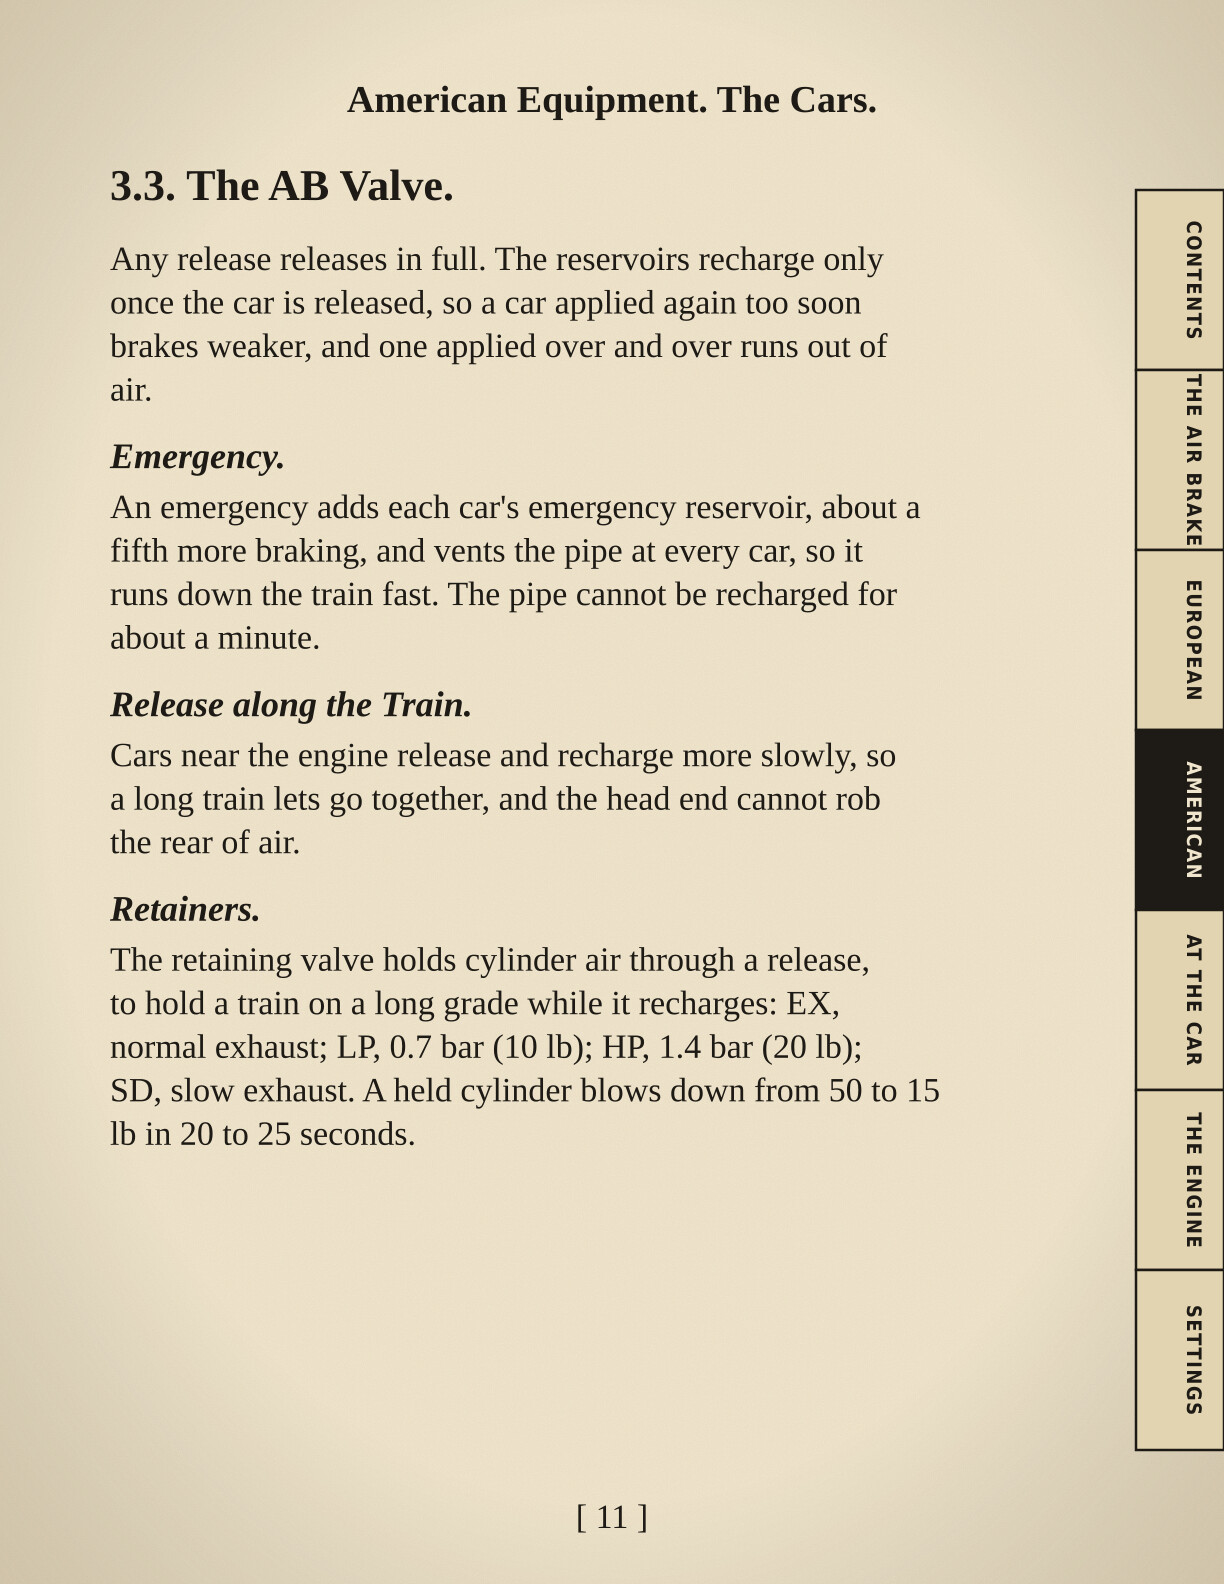
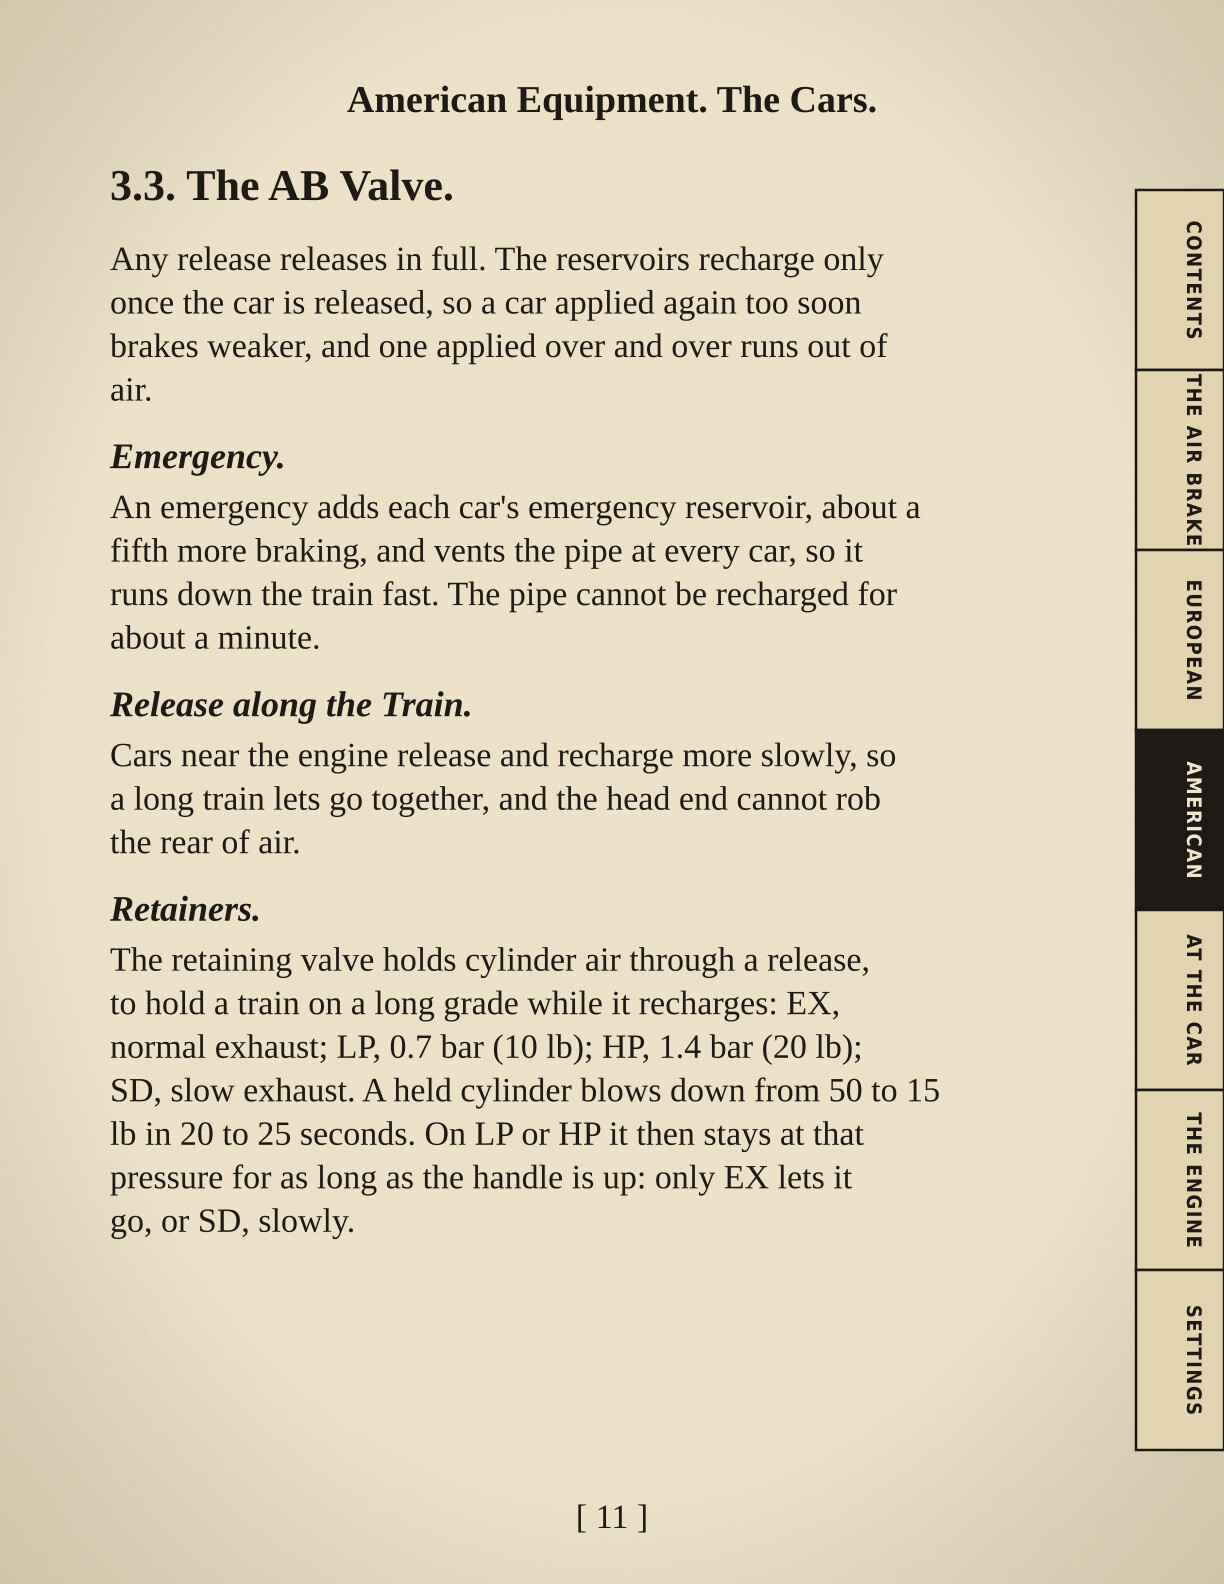
Release Realistic Brakes 1.4.1 source snapshot

Changed region(s): [[0.3415, 0.7115, 0.7141, 0.7734], [0.0931, 0.7424, 0.3105, 0.8043]]

diff --git a/src/RealisticBrakes/Sim/BrakeSets.cs b/src/RealisticBrakes/Sim/BrakeSets.cs
@@ -29,9 +29,43 @@ namespace RealisticBrakes.Sim
         private static int generation;
         private static bool stale;
 
+        // The car last found, and its air. The game asks after the same car
+        // some ten times running in its tick (each stock air method, the
+        // readouts, the heat), each a look in the weak table: about 1 µs a
+        // car a frame, 0.4 ms at 414 cars (in game, 2026-11-09 and 11-11).
+        private static BrakeSystem lastSystem;
+        private static CarAir lastAir;
+
+        // Bumped whenever a car's air is dropped or taken on: a set's airs
+        // (SetAirs) are known still to be its cars' while it stands.
+        private static int carsChanged;
+
         /// <summary>The air of the car with <paramref name="system"/>, if the model has taken it on.</summary>
-        public static bool TryGet(BrakeSystem system, out CarAir air) =>
-            cars.TryGetValue(system, out air) && air.Generation == generation;
+        public static bool TryGet(BrakeSystem system, out CarAir air)
+        {
+            if (lastAir != null && ReferenceEquals(system, lastSystem))
+            {
+                air = lastAir;
+                return air.Generation == generation;
+            }
+            if (!cars.TryGetValue(system, out air))
+                return false;
+            lastSystem = system;
+            lastAir = air;
+            return air.Generation == generation;
+        }
+
+        // Drops a car's air from the table, and from what is remembered of it.
+        private static void Drop(BrakeSystem system)
+        {
+            cars.Remove(system);
+            carsChanged++;
+            if (ReferenceEquals(system, lastSystem))
+            {
+                lastSystem = null;
+                lastAir = null;
+            }
+        }
 
         /// <summary>Re-reads every car's air on the next tick, as when the equipment setting changes.</summary>
         public static void Invalidate() => stale = true;
@@ -132,7 +166,7 @@ namespace RealisticBrakes.Sim
                 if (system != null && cars.TryGetValue(system, out var air))
                 {
                     air.RestoreForce();
-                    cars.Remove(system);
+                    Drop(system);
                 }
         }
 
@@ -152,7 +186,7 @@ namespace RealisticBrakes.Sim
             if (cars.TryGetValue(system, out var air))
                 air.RestoreForce();
             system.auxReservoirPressure = NewAuxiliaryReservoir;
-            cars.Remove(system);
+            Drop(system);
             SavedAir.Discard(system);
             Net.Forget(system);
         }
@@ -176,7 +210,8 @@ namespace RealisticBrakes.Sim
                 stale = false;
                 generation++;
             }
-            var line = LineFor(set);
+            var kept = AirsFor(set);
+            var line = kept.Line;
             var pumpSpeedUp = set.firstCar.gameParams?.CompressorProductionModifier ?? 1f;
             var pipe = line.Pipe;
             var frontOpen = Vents(set.GetEndmost(front: true));
@@ -186,13 +221,9 @@ namespace RealisticBrakes.Sim
             pipe.RearOpen = rearOpen;
             changed |= VentFromOutside(set, line, dt);
 
-            airs.Clear();
-            foreach (var system in set.cars)
-            {
-                TryGet(system, out var air);
+            var airs = kept.Airs;
+            foreach (var air in airs)
                 changed |= air.BeforeStep(pumpSpeedUp);
-                airs.Add(air);
-            }
             if (!changed && line.ChangeRate < SettledRate)
             {
                 // Standing still (parked, lapped, level): nothing to run until something changes.
@@ -218,9 +249,6 @@ namespace RealisticBrakes.Sim
         /// second, far under the 0.3 bar a minute of a leak the cars ignore.
         /// </summary>
         private const double SettledRate = 1.0;
-
-        // Reused each tick, as the game ticks hundreds of sets a frame.
-        private static readonly List<CarAir> airs = new List<CarAir>();
 
         /// <summary>
         /// The set's one stock pipe pressure, bar absolute, for code that
@@ -318,6 +346,45 @@ namespace RealisticBrakes.Sim
             return true;
         }
 
+        // A set's line and its cars' airs in the set's order, as last
+        // matched: while no car's air anywhere has been dropped or taken on
+        // since, and the set holds the same cars in the same order, they
+        // still match, with no look in the table for any car.
+        private sealed class SetAirs
+        {
+            public BrakeLine Line;
+            public BrakeSystem[] Systems;
+            public CarAir[] Airs;
+            public int Generation;
+            public int CarsChanged;
+        }
+
+        private static readonly ConditionalWeakTable<Brakeset, SetAirs> setAirs = new ConditionalWeakTable<Brakeset, SetAirs>();
+
+        private static SetAirs AirsFor(Brakeset set)
+        {
+            if (setAirs.TryGetValue(set, out var kept) && kept.Generation == generation && kept.Systems.Length == set.cars.Count
+                && lines.TryGetValue(set, out var still) && ReferenceEquals(still, kept.Line))
+            {
+                var same = true;
+                for (var i = 0; same && i < kept.Systems.Length; i++)
+                    same = ReferenceEquals(kept.Systems[i], set.cars[i]);
+                // Some car's air has changed since, perhaps one of these: looked up again.
+                if (same && kept.CarsChanged != carsChanged && Matches(kept.Line, set))
+                    kept.CarsChanged = carsChanged;
+                if (same && kept.CarsChanged == carsChanged)
+                    return kept;
+            }
+            var line = LineFor(set);
+            var airs = new CarAir[set.cars.Count];
+            for (var i = 0; i < airs.Length; i++)
+                TryGet(set.cars[i], out airs[i]);
+            setAirs.Remove(set);
+            kept = new SetAirs { Line = line, Systems = set.cars.ToArray(), Airs = airs, Generation = generation, CarsChanged = carsChanged };
+            setAirs.Add(set, kept);
+            return kept;
+        }
+
         private static BrakeLine LineFor(Brakeset set)
         {
             if (lines.TryGetValue(set, out var line) && Matches(line, set))
@@ -330,13 +397,14 @@ namespace RealisticBrakes.Sim
             {
                 if (!TryGet(system, out var air))
                 {
-                    cars.Remove(system);
+                    Drop(system);
                     // Each car's own pipe readout, which a save restores per car; the set's is an average.
                     var pipe = system.brakePipePressure > 0.5f ? system.brakePipePressure : set.pipePressure;
                     air = CarAir.Create(system, pipe, generation);
                     SavedAir.Apply(air);
                     Net.ApplyPending(air);
                     cars.Add(system, air);
+                    carsChanged++;
                 }
                 if (air.Line != null)
                     previous.Add(air.Line);

diff --git a/art/booklet/make_booklet.py b/art/booklet/make_booklet.py
@@ -29,7 +29,7 @@ INK = "#1e1a15"
 PAPER = "#efe5cc"
 RED = "#9d3427"
 BLUE = "#2e4c80"
-EDITION = "1.4.0"
+EDITION = "1.4.1"
 
 LEFT, RIGHT = 110, W - 144
 
@@ -373,7 +373,7 @@ CHAPTERS = [
         ("h2", "Release along the Train."),
         ("p", "Cars near the engine release and recharge more slowly, so a long train lets go together, and the head end cannot rob the rear of air."),
         ("h2", "Retainers."),
-        ("p", "The retaining valve holds cylinder air through a release, to hold a train on a long grade while it recharges: EX, normal exhaust; LP, 0.7 bar (10 lb); HP, 1.4 bar (20 lb); SD, slow exhaust. A held cylinder blows down from 50 to 15 lb in 20 to 25 seconds."),
+        ("p", "The retaining valve holds cylinder air through a release, to hold a train on a long grade while it recharges: EX, normal exhaust; LP, 0.7 bar (10 lb); HP, 1.4 bar (20 lb); SD, slow exhaust. A held cylinder blows down from 50 to 15 lb in 20 to 25 seconds. On LP or HP it then stays at that pressure for as long as the handle is up: only EX lets it go, or SD, slowly."),
         ("page",),
         ("h2", "Load Braking."),
         ("p", "By default American cars have no empty/load valve, as in the steam era: every car brakes with the force sized for it empty, so a loaded train takes much longer to stop. Use the retainers on long grades. A setting gives the cars automatic empty/load instead."),

diff --git a/PLAYER-GUIDE.md b/PLAYER-GUIDE.md
@@ -132,7 +132,9 @@ while they recharge.
   - **European freight cars:** the G/P lever and the isolating cock.
     Coaches have the cock only.
   - **American cars:** the retaining valve (exhaust, low pressure, high
-    pressure, slow exhaust) and the cut-out cock.
+    pressure, slow exhaust) and the cut-out cock. On LP or HP the
+    cylinder comes down to 10 or 20 lb and stays there for as long as
+    the handle is up; only EX lets it go, or SD, slowly.
 
   A car with its cock closed runs unbraked.
 - **Hand brakes** give half a full application, and they hold only what

diff --git a/CHANGELOG.md b/CHANGELOG.md
@@ -1,5 +1,12 @@
 # Changelog
 
+## 1.4.1 (2026-11-13)
+
+- Long trains and full yards cost a little less frame time.
+- The booklet and the readme say that a retainer on LP or HP holds its
+  pressure for as long as the handle is up; only EX, or SD slowly, lets
+  it go.
+
 ## 1.4.0 (2026-11-11)
 
 - A notice when you apply the train brake before the cars have charged, as
